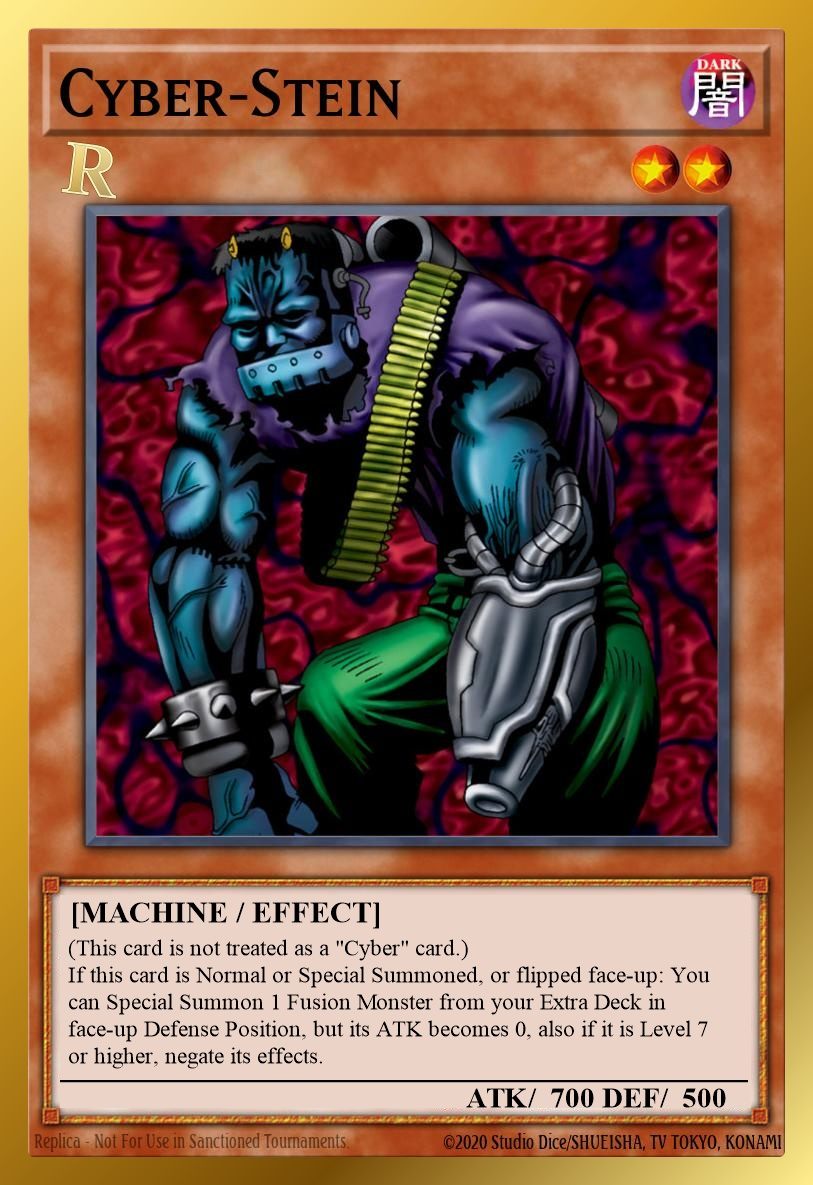
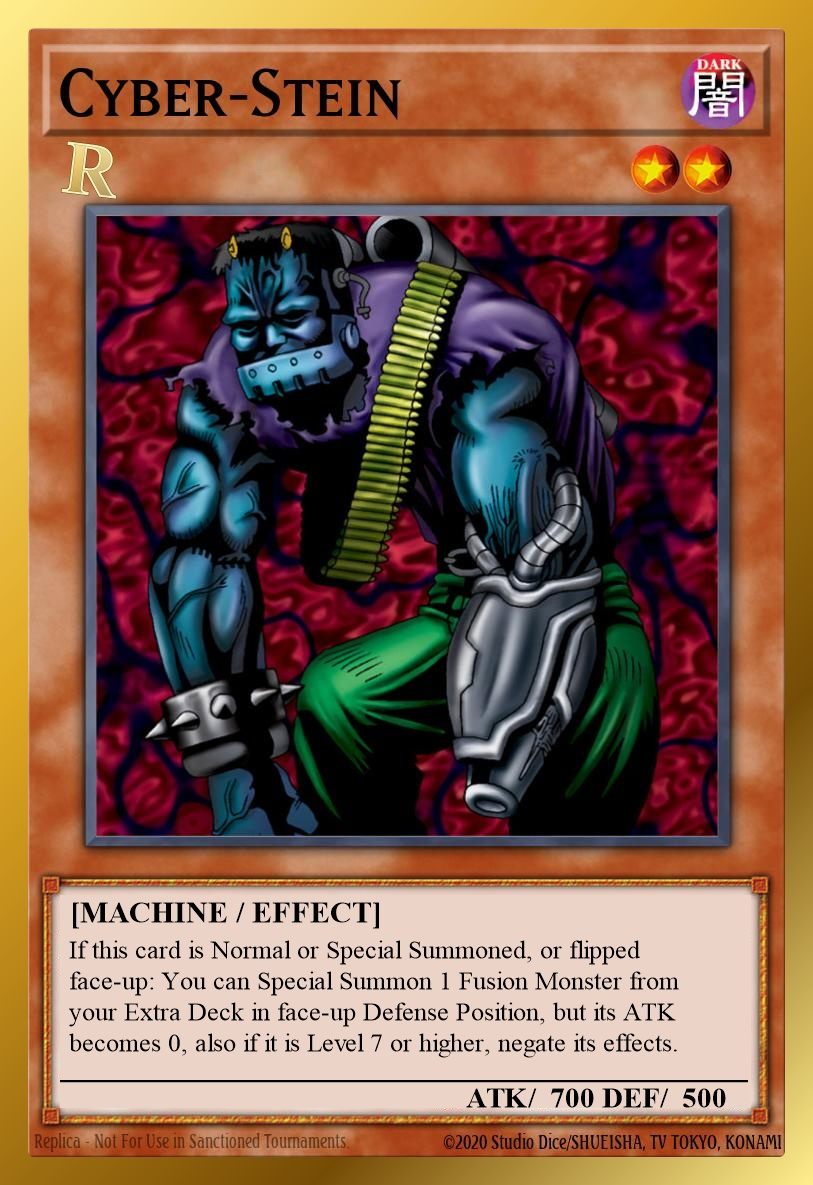
Treat Cyber-Stein as a Cyber card

Changed region(s): [[0.0615, 0.7806, 0.861, 0.9055]]

diff --git a/Redux/scripts/build-cards-cdb.js b/Redux/scripts/build-cards-cdb.js
@@ -105,9 +105,12 @@ module.exports = function buildCardsDb({ reduxRoot }) {
   const cyberSteinTextResult = db
     .prepare("UPDATE texts SET desc = ? WHERE id = ?")
     .run(
-      '(This card is not treated as a "Cyber" card.)\nIf this card is Normal or Special Summoned, or flipped face-up: You can Special Summon 1 Fusion Monster from your Extra Deck in face-up Defense Position, but its ATK becomes 0, also if it is Level 7 or higher, negate its effects.',
+      "If this card is Normal or Special Summoned, or flipped face-up: You can Special Summon 1 Fusion Monster from your Extra Deck in face-up Defense Position, but its ATK becomes 0, also if it is Level 7 or higher, negate its effects.",
       69015963,
     );
+  const cyberSteinSetcodeResult = db
+    .prepare("UPDATE datas SET setcode = ? WHERE id = ?")
+    .run(0x93, 69015963);
   const lastWarriorTextResult = db
     .prepare("UPDATE texts SET desc = ? WHERE id = ?")
     .run(
@@ -286,6 +289,9 @@ module.exports = function buildCardsDb({ reduxRoot }) {
   }
   if (Number(cyberSteinTextResult.changes) !== 1) {
     throw new Error("Expected to update Cyber-Stein text once");
+  }
+  if (Number(cyberSteinSetcodeResult.changes) !== 1) {
+    throw new Error("Expected to update Cyber-Stein setcode once");
   }
   if (Number(lastWarriorTextResult.changes) !== 1) {
     throw new Error("Expected to update The Last Warrior from Another Planet text once");

diff --git a/README.md b/README.md
@@ -77,7 +77,7 @@ Redux Limits: `0` = forbidden; `1` = limited; `2` = semi-limited; `3` = unlimite
 | `1` [Brionac, Dragon of the Ice Barrier](https://yugioh.fandom.com/wiki/Brionac,_Dragon_of_the_Ice_Barrier) | ⬇ Once per turn |
 | `1` [Change of Heart](https://yugioh.fandom.com/wiki/Change_of_Heart) | ⬇ Discard 1; stolen monster: no battle damage while on field |
 | `1` [Chaos Emperor Dragon - Envoy of the End](https://yugioh.fandom.com/wiki/Chaos_Emperor_Dragon_-_Envoy_of_the_End) | 🔄 Banish 3 LIGHT or DARK monsters (at least 1 each); summon effect has no LP cost; destroy other cards; both gain 300 LP per card |
-| `1` [Cyber-Stein](https://yugioh.fandom.com/wiki/Cyber-Stein) | 🔄 Summon/flip trigger; no LP cost; Fusion monster: Defense Position & 0 ATK; Level 7+ effects negated |
+| `1` [Cyber-Stein](https://yugioh.fandom.com/wiki/Cyber-Stein) | 🔄 Counts as Cyber; summon/flip trigger; no LP cost; Fusion monster: Defense Position & 0 ATK; Level 7+ effects negated |
 | `1` [Dark Hole](https://yugioh.fandom.com/wiki/Dark_Hole) | ⬇ No battle damage |
 | `1` [Dark Magician of Chaos](https://yugioh.fandom.com/wiki/Dark_Magician_of_Chaos) | ⬇ Once per turn |
 | `1` [Dark Strike Fighter](https://yugioh.fandom.com/wiki/Dark_Strike_Fighter) | ⬇ Once per turn |
